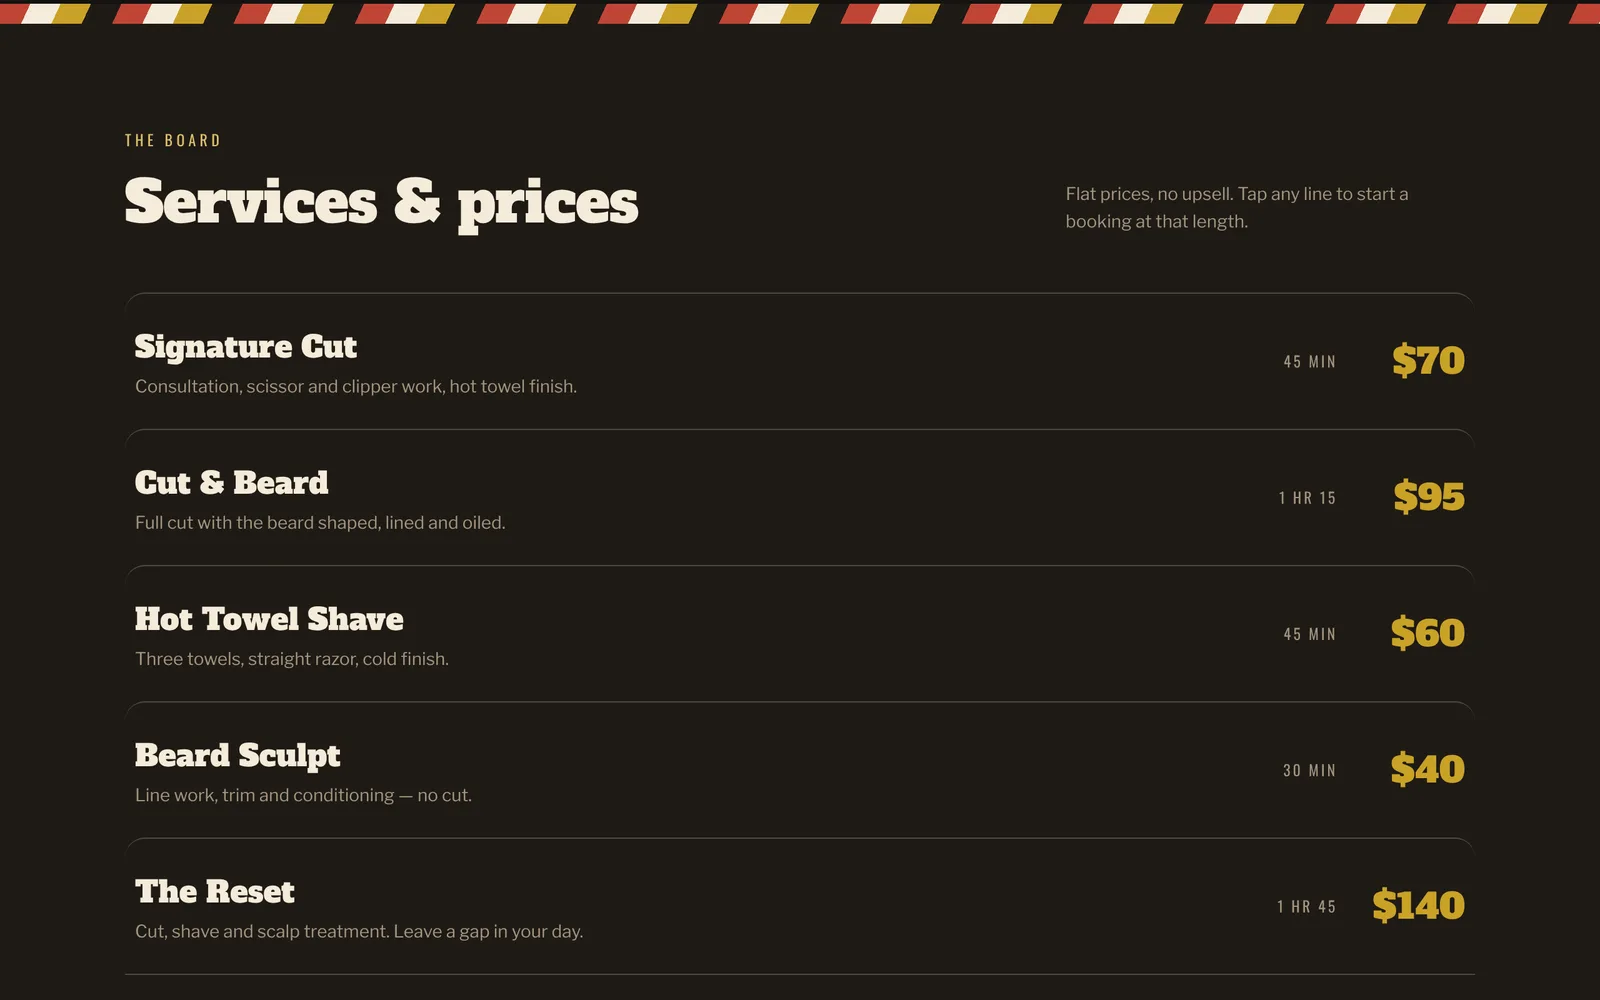
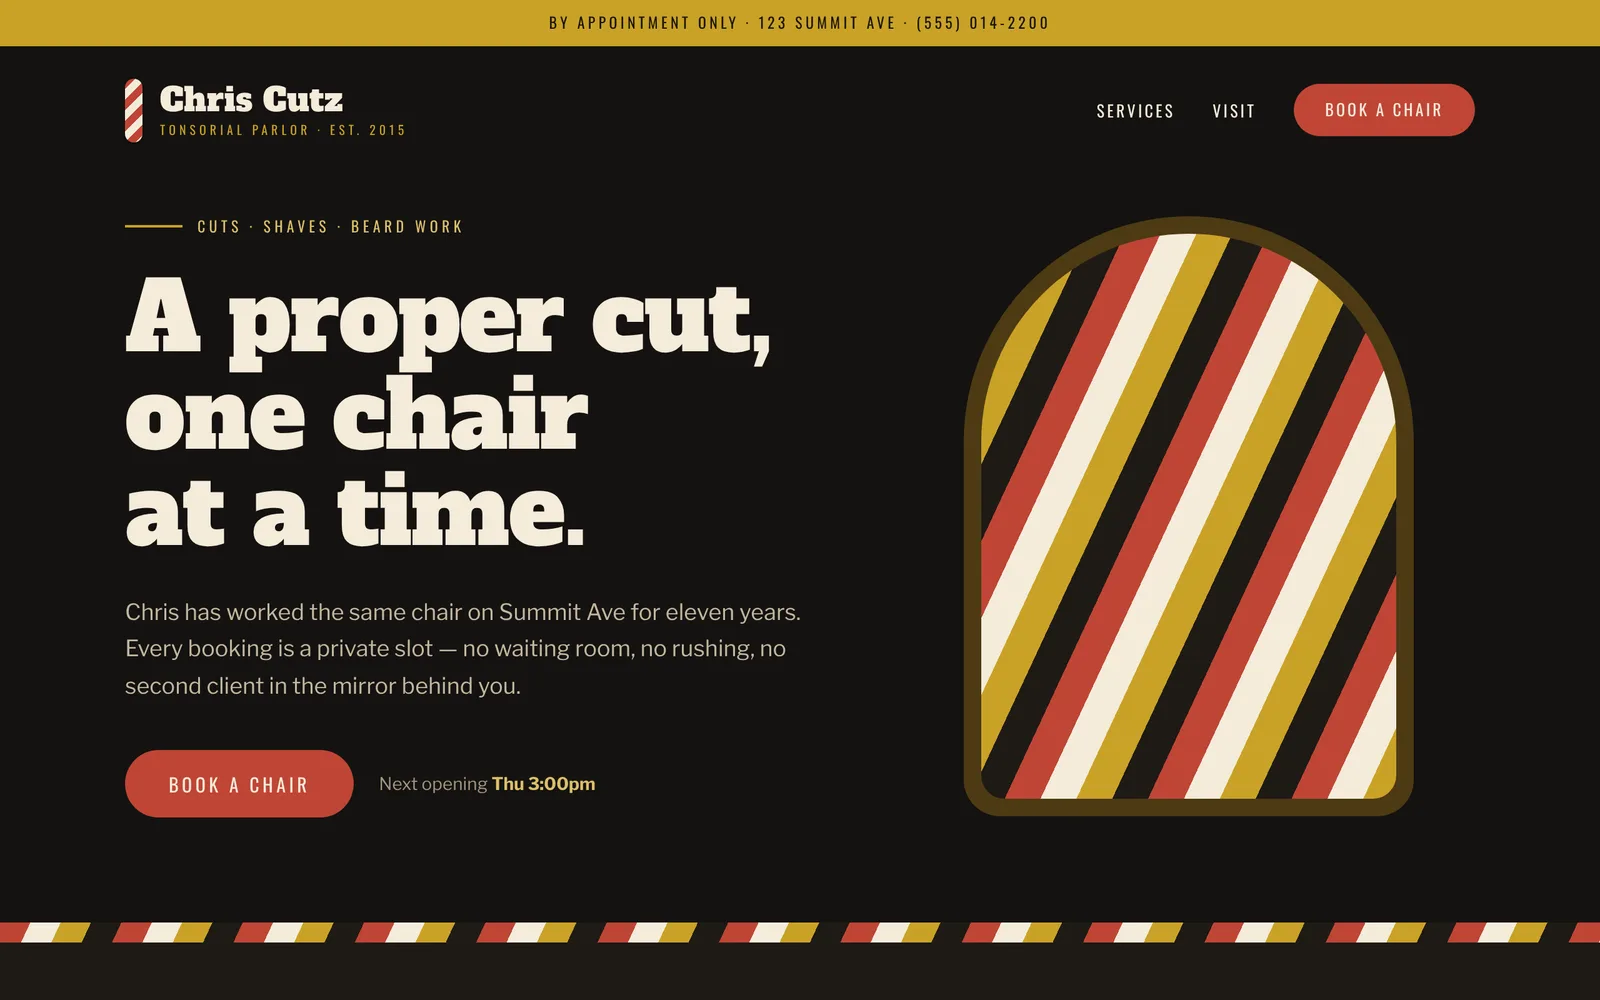
Point the portfolio at the live client sites
Larrys Lawn Care and Chris Cutz are deployed now, so the thumbnails are
captures of the published pages rather than of the design files, and each
card carries a link out to the site.

- Project gains an optional url; ProjectCard renders a "Visit <name>"
  link when one is set, opening in a new tab
- new ArrowUpRightIcon for that link
- both screenshots re-taken from the deployed commits at 1280x800

Peters Powerwashing still has no site, so it keeps the generated artwork
and shows no link.

Claude-Session: https://claude.ai/code/session_01Xn5h3wMYaf9JrVXB45ixzT

diff --git a/src/lib/content.ts b/src/lib/content.ts
@@ -105,6 +105,8 @@ export type Project = {
   image?: string;
   /** What the screenshot shows, for the alt text. */
   imageAlt?: string;
+  /** Live URL, when the site is published. */
+  url?: string;
 };
 
 /** Real clients. Add results here only once they are measured. */
@@ -119,7 +121,8 @@ export const projects: Project[] = [
     scope: ["Website design", "Quote builder", "Local SEO"],
     swatch: ["#084a44", "#34d3a9"],
     image: "/portfolio/larrys-lawn-care.webp",
-    imageAlt: "home page hero",
+    imageAlt: "home page",
+    url: "https://larrys-lawn-care.vercel.app",
   },
   {
     slug: "chris-cutz",
@@ -131,7 +134,8 @@ export const projects: Project[] = [
     scope: ["Website design", "Online booking", "Photo direction"],
     swatch: ["#042523", "#5be3bf"],
     image: "/portfolio/chris-cutz.webp",
-    imageAlt: "services and prices",
+    imageAlt: "home page",
+    url: "https://chris-cutz-six.vercel.app",
   },
   {
     slug: "peters-powerwashing",

diff --git a/src/components/ProjectCard.tsx b/src/components/ProjectCard.tsx
@@ -1,5 +1,5 @@
 import Image from "next/image";
-import { ArrowRightIcon } from "@/components/Icons";
+import { ArrowRightIcon, ArrowUpRightIcon } from "@/components/Icons";
 import type { Project } from "@/lib/content";
 
 /**
@@ -79,6 +79,19 @@ export function ProjectCard({ project }: { project: Project }) {
             </li>
           ))}
         </ul>
+
+        {project.url ? (
+          <a
+            href={project.url}
+            target="_blank"
+            rel="noopener noreferrer"
+            className="mt-6 inline-flex min-h-11 w-fit items-center gap-1.5 text-[0.92rem] font-semibold text-teal-700 transition-colors duration-200 hover:text-teal-600"
+          >
+            Visit {project.name}
+            <ArrowUpRightIcon className="h-4 w-4" />
+            <span className="sr-only">(opens in a new tab)</span>
+          </a>
+        ) : null}
       </div>
     </article>
   );

diff --git a/src/components/Icons.tsx b/src/components/Icons.tsx
@@ -78,6 +78,13 @@ export const ArrowRightIcon = (p: IconProps) => (
   </Base>
 );
 
+export const ArrowUpRightIcon = (p: IconProps) => (
+  <Base {...p}>
+    <path d="M7 17 17 7" />
+    <path d="M8.5 7H17v8.5" />
+  </Base>
+);
+
 export const PhoneIcon = (p: IconProps) => (
   <Base {...p}>
     <path d="M6.2 3.5h3l1.5 3.8-2 1.4a12.5 12.5 0 0 0 6.6 6.6l1.4-2 3.8 1.5v3a1.8 1.8 0 0 1-2 1.8A16.8 16.8 0 0 1 4.4 5.5a1.8 1.8 0 0 1 1.8-2Z" />
